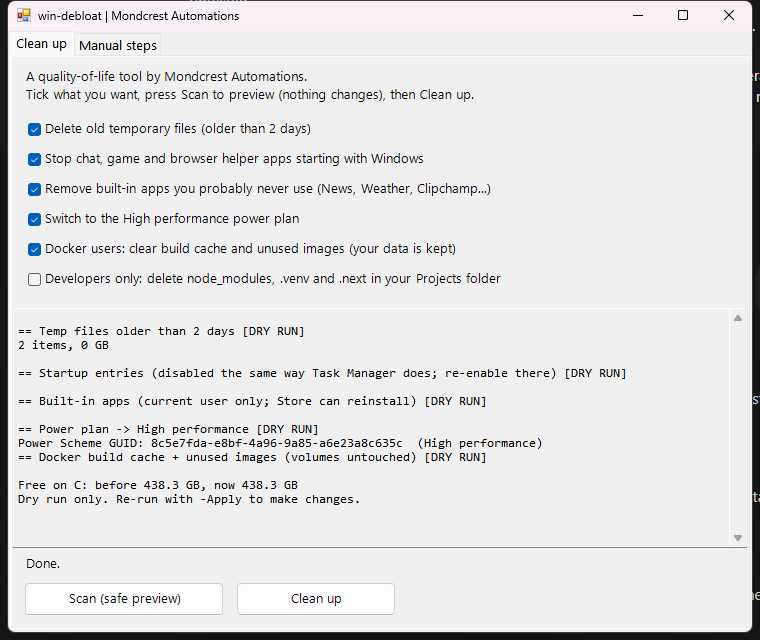
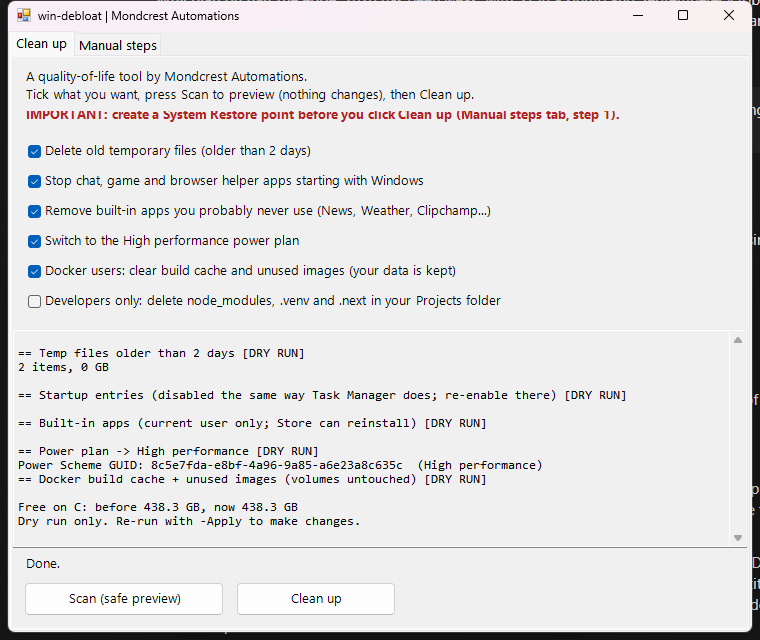
Add prominent System Restore point warning to README and dashboard (v1.0.1)

diff --git a/README.md b/README.md
@@ -2,6 +2,9 @@
 
 > **A quality-of-life side project.** Built and shared by [Mondcrest Automations](https://mondcrest.com), a B2B AI agency. It is not part of our agency services.
 
+> ## ⚠ IMPORTANT: create a System Restore point first
+> Before you click **Clean up** (or run with `-Apply`), create a Windows **System Restore point** so you can roll back if anything goes wrong: press Start, type "Create a restore point", choose your C: drive and click **Create**. The dashboard's Manual steps tab opens this for you. This tool has been tested on one Windows 11 PC only. You use it at your own risk.
+
 A safe, reversible Windows 11 cleanup. **Dry run by default**: it only reports until you click Clean up (or pass `-Apply`).
 
 ## Easiest way: the dashboard (no technical skills needed)

diff --git a/CHANGELOG.md b/CHANGELOG.md
@@ -1,5 +1,8 @@
 # Changelog
 
+## 1.0.1 - 2026-11-04
+- Added a prominent System Restore point warning to the README and the dashboard. Documented that it is tested on one Windows 11 PC.
+
 ## 1.0.0 - 2026-11-04
 - `debloat.ps1`: dry-run-by-default cleanup (temp files, startup entries, built-in apps, power plan, Docker cache, opt-in dev folders).
 - `dashboard.ps1` + `Start-Dashboard.cmd`: point-and-click window with a Manual steps tab.
